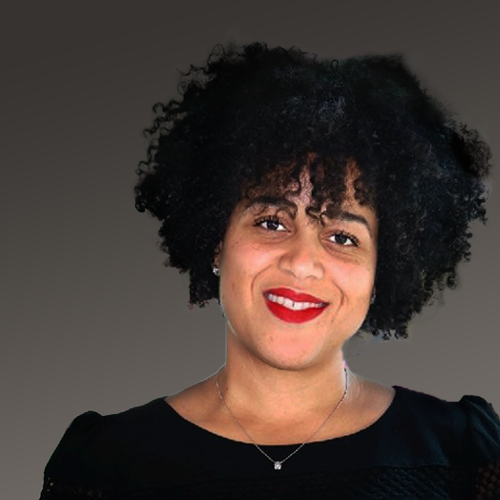
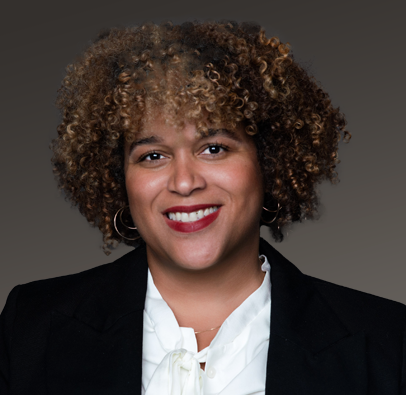
Edited About page and Previous Quarterly ITVMO Newsletter page.
- Removed Michelle Chandler from Meeting the team section on the About page.
- Edited Kyra image on both About page and Previous Quarterly ITVMO newsletter page.

diff --git a/_includes/about.html b/_includes/about.html
@@ -388,16 +388,6 @@
                     Deputy IT Government-wide Category Manager
             </p>
             </a>
-            <a tabindex="0" class="team-member" href="#michelle-chandler" aria-label="Open Michelle Chandler information"
-            aria-controls="michelle-chandler" data-open-modal>
-            <img class="profile-pic" src="{{site.baseurl}}/assets/images/person/michelle-chandler.png" alt="Michelle Chandler image">
-            <h3 class="profile-name">
-                Michelle Chandler
-            </h3>
-            <p class="profile-title">
-                Outreach Engagement, Training and Counseling
-            </p>
-            </a>
             <a tabindex="0" class="team-member" href="#brittany-chapman" aria-label="Open Brittany A. Chapman information"
             aria-controls="brittany-chapman" data-open-modal>
             <img class="profile-pic" src="{{site.baseurl}}/assets/images/person/brittany-chapman.jpeg" alt="Brittany A. Chapman image">
@@ -535,75 +525,6 @@
           </div>
         </div>
 
-        <div
-          class="usa-modal usa-modal-team-member"
-          id="michelle-chandler"
-    
-    
-        >
-          <div class="usa-modal__content">
-            <div class="usa-modal__main">
-                <div class="overlay-team-member">
-                    <div class="overlay-team-member-left">
-                        <img class="profile-pic" src="{{site.baseurl}}/assets/images/person/michelle-chandler.png" alt="Michelle Chandler image">
-                        <h3 class="profile-name">   
-                            Michelle Chandler
-                        </h3>
-                        <p class="profile-title">
-                            Outreach Engagement, Training and Counselingr
-                        </p>
-                        <div class="profile-detail">
-                            <div>
-                                <img src="{{site.baseurl}}/assets/images/icons/location-icon-orange.svg" alt="location logo"><p>Location - <b>Washington, DC</b></p>
-                            </div>
-                            <div>
-                                <img src="{{site.baseurl}}/assets/images/icons/calendar-icon-orange.svg" alt="calendar logo"><p>ITVMO Start Date - <b>May 23, 2022</b></p>
-                            </div>
-                            <div>
-                                <img src="{{site.baseurl}}/assets/images/icons/house-icon.svg" alt="house logo"><p>Government Experience - <b>20 years
-
-                                </b></p>
-                            </div>
-                        </div>
-                    </div>
-                    <div class="overlay-team-member-right">
-                        <h3 class="profile-name">
-                            Michelle Chandler
-                        </h3>
-                        <p class="profile-title">
-                            Outreach Engagement, Training and Counseling            
-                        </p>
-                        <div class="profile-About">
-                            <h4>About</h4>
-                            <p>
-                                Hi, my name Is Michelle,<br> With over two decades of dedicated service in the federal government, I have honed my expertise in Small Business Management, specializing in Outreach Engagement, Training, and Counseling. I am fervently dedicated to leveling the playing field for small businesses, dismantling systemic barriers to entry in the Federal market, and increasing government-wide contract opportunities to help small businesses win federal contracts.
-                            </p>
-                            <p class="padding-top-3">
-                                My role encompasses providing personalized counseling and training to small businesses and guiding them through onboarding processes for securing government contracts. Additionally, I offer comprehensive support in marketing and compliance training for new contract holders and serve as a trusted independent advisor and advocate, ensuring agencies procure IT goods and services in strict accordance with procurement laws. I’ve had a varied career in the United States Navy as a Ministry Leader and a Real Estate Investment Broker, which has all contributed to the person I am today. My main loves are spending time with GOD, Jesus, and my family.
-                            </p>
-                        </div>
-                    </div>
-                </div>
-              <div class="usa-modal__footer">
-                <ul class="usa-button-group">
-                  <li class="usa-button-group__item">
-                    <button type="button" class="usa-button team-member-button" data-close-modal>
-                        Go back
-                    </button>
-                  </li>
-                </ul>
-              </div>
-            </div>
-            <button
-              type="button"
-              class="usa-button usa-modal__close"
-              aria-label="Close this window"
-              data-close-modal
-            >
-            <img src="{{site.baseurl}}/assets/images/icons/exit-icon.svg" alt="Exit button" class="exit-button">
-            </button>
-          </div>
-        </div>
         <div
           class="usa-modal usa-modal-team-member"
           id="brittany-chapman"

diff --git a/_includes/previous-quarterly-itvmo-newsletter.html b/_includes/previous-quarterly-itvmo-newsletter.html
@@ -278,7 +278,7 @@
             New ITVMO Team Members: Introducing: Mrs. Kyra Stewart
           </h3>
           <div class="tab-img-p">
-            <img class="tab-img-p-image" alt="Mrs. Kyra Stewart image" src="{{site.baseurl}}/assets/images/person/kyra-stewart.jpeg">
+            <img class="tab-img-p-image" alt="Mrs. Kyra Stewart image" src="{{site.baseurl}}/assets/images/person/kyra-stewart-new.png">
             <p class="tab-p">
                Mrs. Kyra Stewart is the Program Manager for the Governmentwide IT Vendor Management (ITVMO), she was part of the initial effort to conceptualize and design the ITVMO in collaboration with GSA, NASA, NIH, DoD, and OMB. Kyra has over 20 years of federal government experience. She joined the government as an Economist more than 20 years ago, went on to run a hazardous materials grant program, held the role of Agency Ombudsperson, was Director of Innovation for the Department Of Transportation, and served as a White House Leadership Development Program Fellow in 2018. Mrs. Stewart holds a Masters in Public Administration from American University, and BA in economics from the University of Virginia.
             </p>
